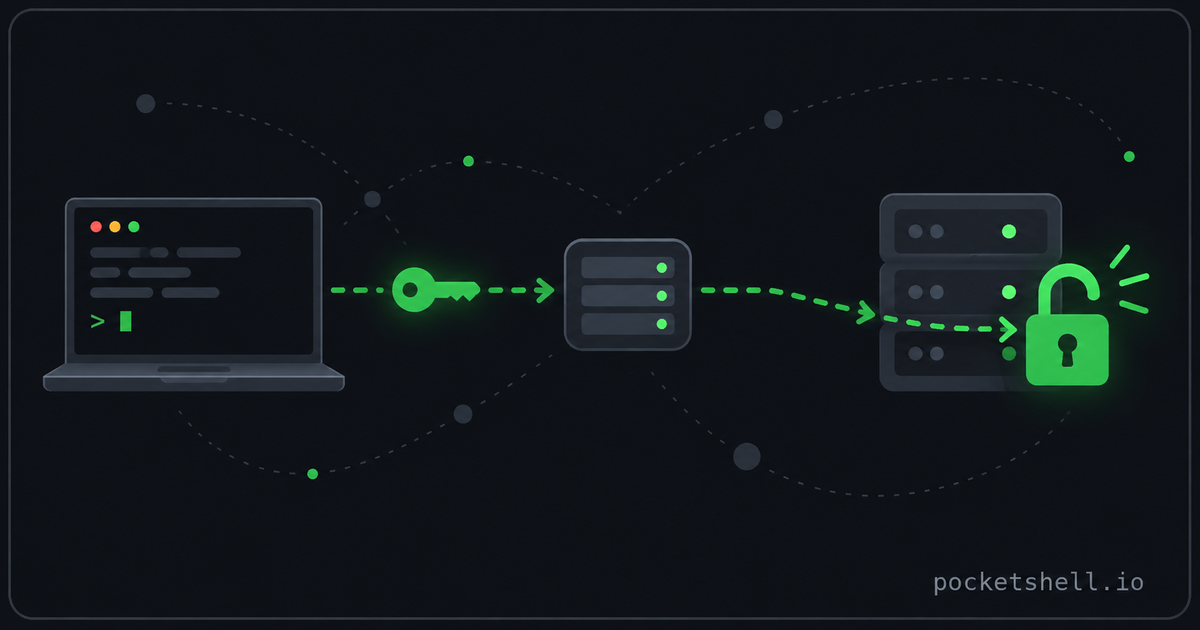
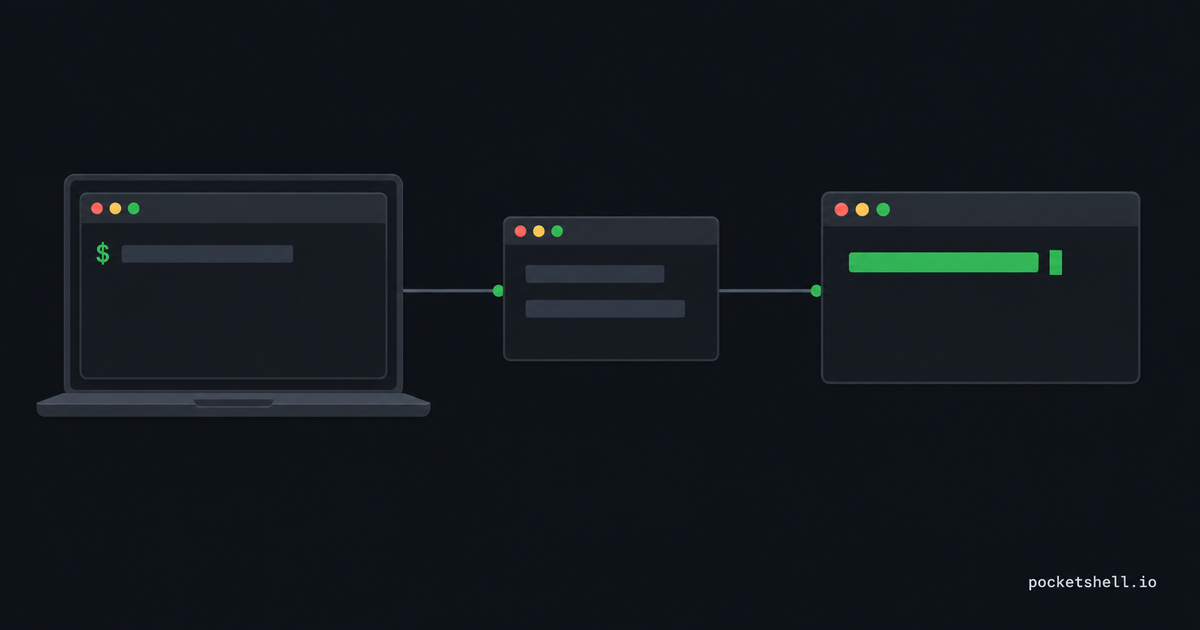
Blog: rebuild the five rejected covers as UI close-ups
Human review split the set: metaphor-prop scenes (keyring, heartbeat,
broken cable, glowing rack) read as AI stock art while UI close-ups pass.
The four rejected covers are regenerated with the composition recipe and
sit at 5.8k-8.6k unique colors (previously 14.5k-36.7k); imagegen.md
records the recipe, the verdict split, and the metric that matches it.

diff --git a/docs/imagegen.md b/docs/imagegen.md
@@ -27,6 +27,8 @@ Repeatable process for producing brand-consistent images (blog covers, landing a
 - Look: flat-to-soft-3D modern illustration, crisp geometry, generous negative space; terminal-window motifs (three window dots, `$` prompts, cursors), monospace type, rounded dark cards. The 2026-09 set came out as soft-3D renders on the dark background despite "flat" in the prompt and looked right — matching `og-cover.png`'s depth is the goal, not flatness per se.
 - No photos of real people; no real-world logos or trademarks; devices are generic laptop/tablet/phone silhouettes.
 - Text policy: the only allowed text is the wordmark `pocketshell.io` bottom-right, monospace, rendered verbatim. Per-asset exceptions must be spelled out in the brief. Terminal screens show abstract dimmed glyph shapes, not readable code — models garble anything else.
+- Composition recipe (human-confirmed 2026-09-12 — every approved cover follows it): the scene is a close-up of product UI — terminal windows, session-list rows, status dots, solid placeholder bars, prompt lines, tag chips, generic device silhouettes, thin connector lines. At most 3 focal elements, straight-on, calm, generous negative space. Tell the story through state: green = alive/allowed/attached, dim gray = inactive/rejected.
+- Never use metaphor props: keys, keyrings, padlocks, shields, heartbeat/pulse lines, batteries, plugs, sparkles, broken/snapped cables, glowing server racks, confetti dots. Metaphor scenes are what made five covers read as glossy AI stock art.
 - Sizes: blog covers 1200×630 at `public/images/blog/<slug>.png` (og 1.91:1); landing art 1536×1024 in `public/images/`. One series: same palette and style, distinct compositions.
 
 ## Format: WebP in-page, PNG for og:image
@@ -49,7 +51,7 @@ The set-wide tell is **soft airbrushed shading**: the hand-made `og-cover.png` i
 
 Eyes rank offenders; two scripted checks make the pass repeatable:
 
-- **Metrics** — `/usr/bin/python3 scripts/ai-tells-metrics.py` (from the repo root; prints one table row per cover against the `og-cover.png` reference). Reject an image when: flat-pixel share < 35%, unique colors > 10k, top-8 palette share < 90%, or specular-glint clusters appear with no matching text block — glints without text mean a metallic stock-render look.
+- **Metrics** — `/usr/bin/python3 scripts/ai-tells-metrics.py` (from the repo root; prints one table row per cover against the `og-cover.png` reference). Reject an image when: flat-pixel share < 35%, unique colors > 10k, top-8 palette share < 90%, or specular-glint clusters appear with no matching text block — glints without text mean a metallic stock-render look. The 10k unique-color line was confirmed by human review on 2026-09-12: every approved cover sits at ≤8.6k, every rejected one at ≥14.5k.
 - **Airbrush index** — smooth-gradient share far above the reference's 0.3% is the whole-set tell; use it to rank offenders, not to auto-reject (the model renders soft shading by default).
 - **OCR** — `tesseract` at 2× scale, `--psm 11`. Only the approved `pocketshell.io` wordmark (plus `~/.ssh/config` on its cover) may appear, letter-perfect; misspelled or stray words = regenerate. Loose shape-blobs misread as glyphs are expected, not a tell.
 - **Motif check** still needs eyes: traffic lights red/amber/green, no glow halos.
@@ -60,16 +62,18 @@ Accept an image only when it passes metrics, OCR, and the visual checklist above
 
 Regenerate only the offenders — never the whole set:
 
-1. Write a one-asset fix brief to `.tmp/<slug>-brief.md`: the original asset paragraph from the generation brief plus hard bans — **no gradients, no 3D/metallic/glossy, no soft shadows, no blur/bokeh, no glow bloom; solid fills only; traffic lights red/amber/green; match `public/images/og-cover.png` flatness**.
+1. Write a one-asset fix brief to `.tmp/<slug>-brief.md`: **rebuild the composition with the recipe in the style spec** — only scrubbing effects while keeping a metaphor-prop composition risks the same verdict. Keep the hard bans — **no gradients, no 3D/metallic/glossy, no soft shadows, no blur/bokeh, no glow bloom; solid fills only; traffic lights red/amber/green; match `public/images/og-cover.png` flatness**.
 2. Launch codex with the same command as in Process, pointing at the fix brief. One targeted change per retry.
 3. Gate on the metrics + OCR + motif checks above before accepting; then `convert <path>.png -quality 85 <path>.webp` and `npm run build`.
 4. Longer term: true-flat output needs these flatness bans in every brief, or post-processing (posterize toward the og-cover palette).
 
-### 2026-09 verdicts (pixel-metrics + OCR against og-cover.png)
+### 2026-09-12 human verdicts — what reads as AI-generated
 
-- **Replace:** `ssh-authorized-keys-hardening` — extreme outlier on every axis: 36,697 colors (2–5× the set), most smooth shading, 152 specular-glint clusters with no text to justify them, lowest palette concentration — reads as glossy 3D stock art.
-- **Review next:** `ssh-ai-agents-remote-machines` — most airbrushed of the remainder (20,295 colors, 77% smooth).
-- **Keep:** the rest. `ssh-config-file` (6,776 colors, 97.4% top-8 share) and `landing-agents` are cleanest; the landing wordmark OCRs letter-perfect, and all seven covers pass the no-garble OCR check.
+Alexey reviewed every cover. **Approved:** `aplexer-agent-multiplexer`, `check-ai-agents-from-phone`, `ssh-config-file`, `ssh-from-ipad-iphone` — all UI-close-up compositions (session list, phone + terminal, hero text, couch scene). **Rejected:** `tmux-persistent-ssh-sessions`, `ssh-ai-agents-remote-machines`, `ssh-authorized-keys-hardening`, `ssh-agent-forwarding`, `keep-ssh-session-alive` — all metaphor-prop scenes (broken cable + alive pane, glowing server rack, keyring + shield, key on a dotted path, heartbeat line).
+
+The pixel metric that matches this split exactly is **unique colors**: approved covers sit at 6.1k–8.6k, rejected ones at 14.5k–36.7k. UI close-ups have large flat areas; metaphor scenes drag the model into soft 3D shading. flat%, smooth% and entropy do not separate the two groups. Winning brief template: `.tmp/agent-cluster-brief.md` (concrete UI-vocabulary paragraphs). Anti-template: the mood-paragraph style of `.tmp/codex-imagegen-brief.md` ("a key traveling along a dotted path…", "a heartbeat/pulse line…").
+
+**Fix round outcome (2026-09-12, same day):** the four rejected covers were rebuilt with the recipe (brief: `.tmp/codex-imagegen-fix2-brief.md`) and dropped to 5.8k–8.6k unique colors; `authorized_keys` OCRs letter-perfect. The earlier effect-cleanup pass that kept metaphor compositions (`.tmp/codex-imagegen-fix-brief.md`) also produced metric-passing images (7.7k–8.6k) — passing the gate is necessary but not sufficient, so rebuild the composition itself. The fresh `ssh-ai-agents-remote-machines` from that pass fit the recipe (straight-on matte server + panes) and was kept. Pre-rebuild versions: `.tmp/imagegen-backups-20260912/`.
 
 ## Wiring (how images reach the page)
 
